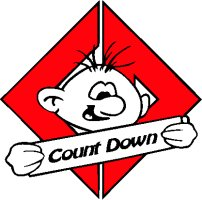
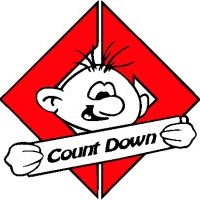
Viele lustige Auf-gut-Glück-Änderungen später, closes #31. ...aber wie bei einem guten Horrorfilm bleibt das Unwohlsein bestehen. Gruselig, dass verschiedene XeTeX-Versionen scheinbar nicht gleich mit den Auflösungs- und Größeninformationen eines Bildes umgehen. Fun fact: Das Bild ist jetzt von Goog

diff --git a/texte/cd.tex b/texte/cd.tex
@@ -1,11 +1,11 @@
 \addchap{Studentenclub Count Down}
 
-\begin{wrapfigure}{l}{0.32\textwidth}
-  \vspace{-15pt}
+\begin{wrapfigure}{l}{5cm}%
+  \vspace{-.5cm}
   \begin{centering}
-    \includegraphics[width=0.3\textwidth]{img/countdown.jpg}
-  \end{centering}
-  \vspace{-20pt}
+    \includegraphics[width=4.5cm]{img/countdown.jpg}
+  \end{centering}%
+  \vspace{-.5cm}
 \end{wrapfigure}
 
 Um einen Ort für gemeinsame Treffen und Aktivitäten zu haben, betreiben wir vom Studentenklub IZ e.V. das Count Down.
